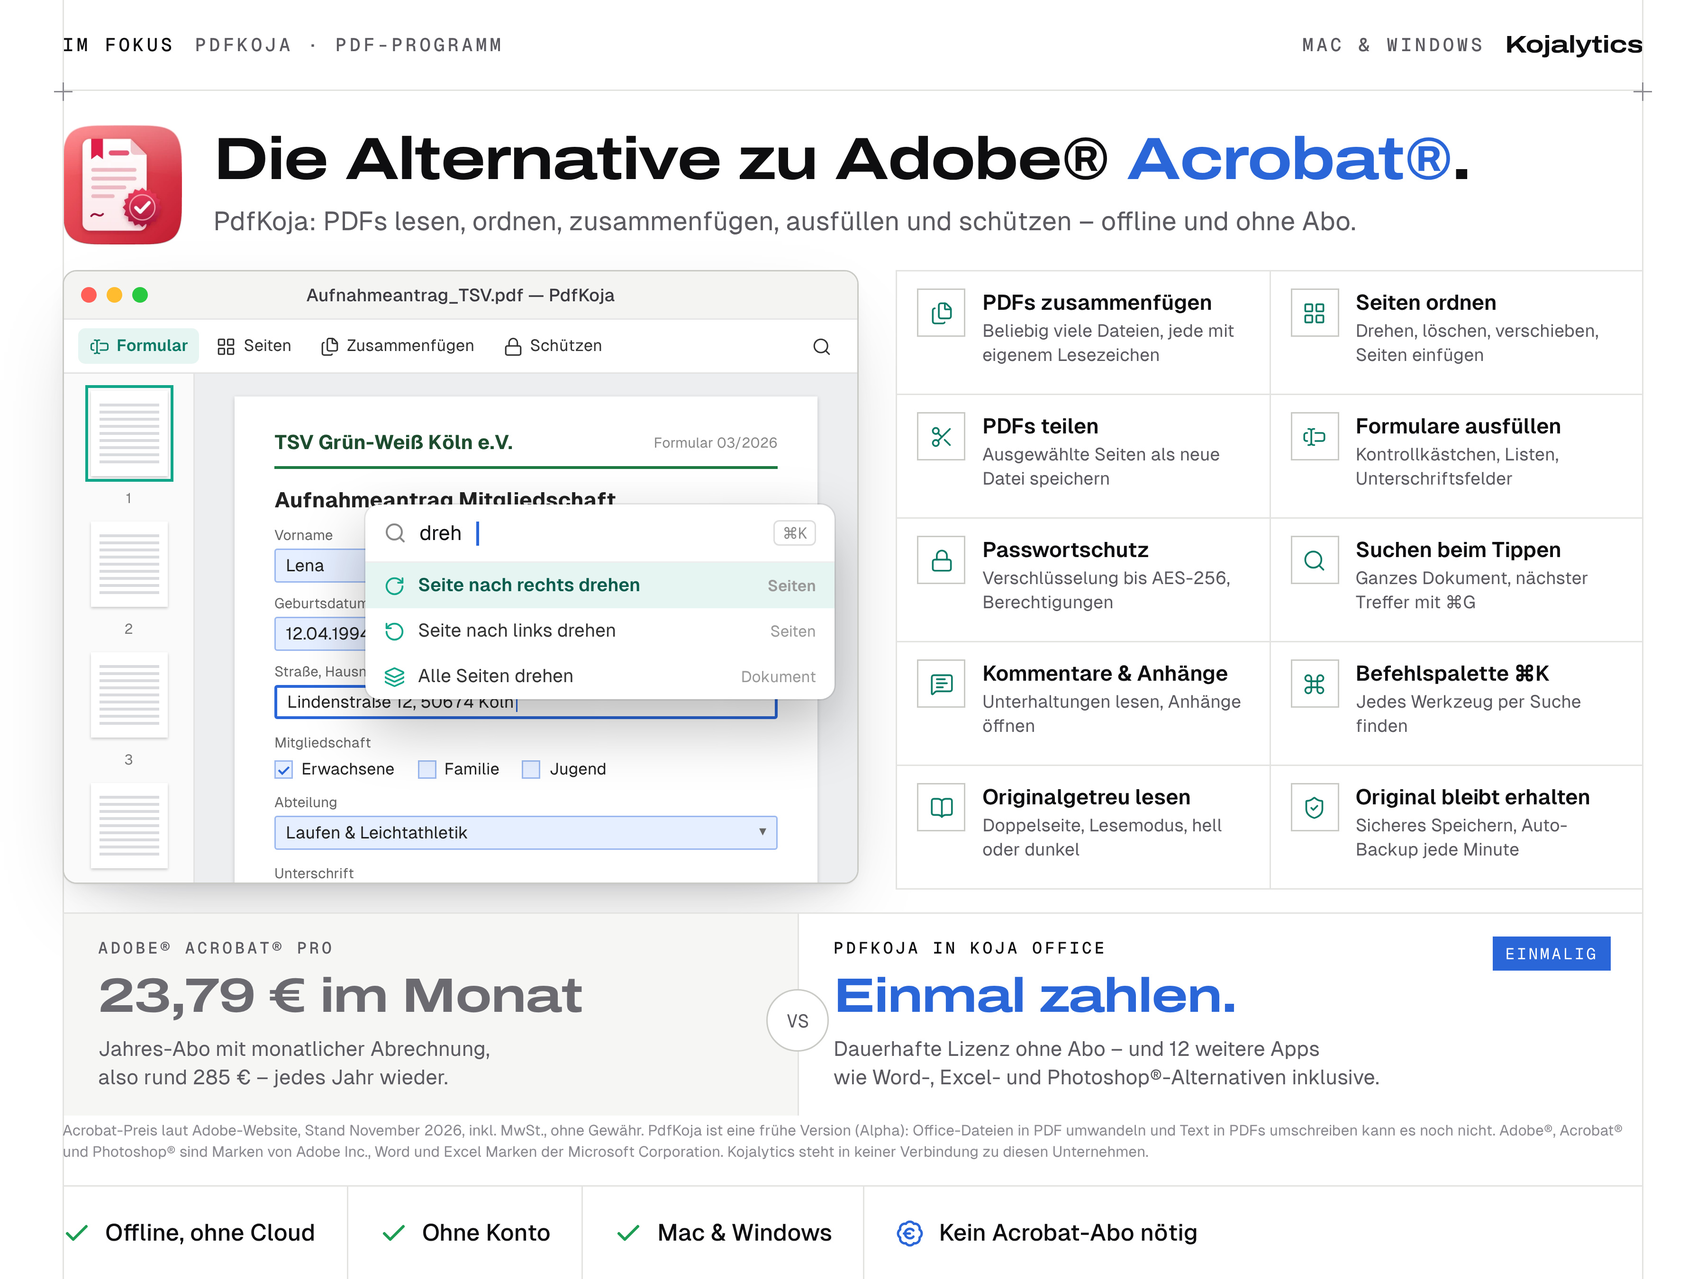
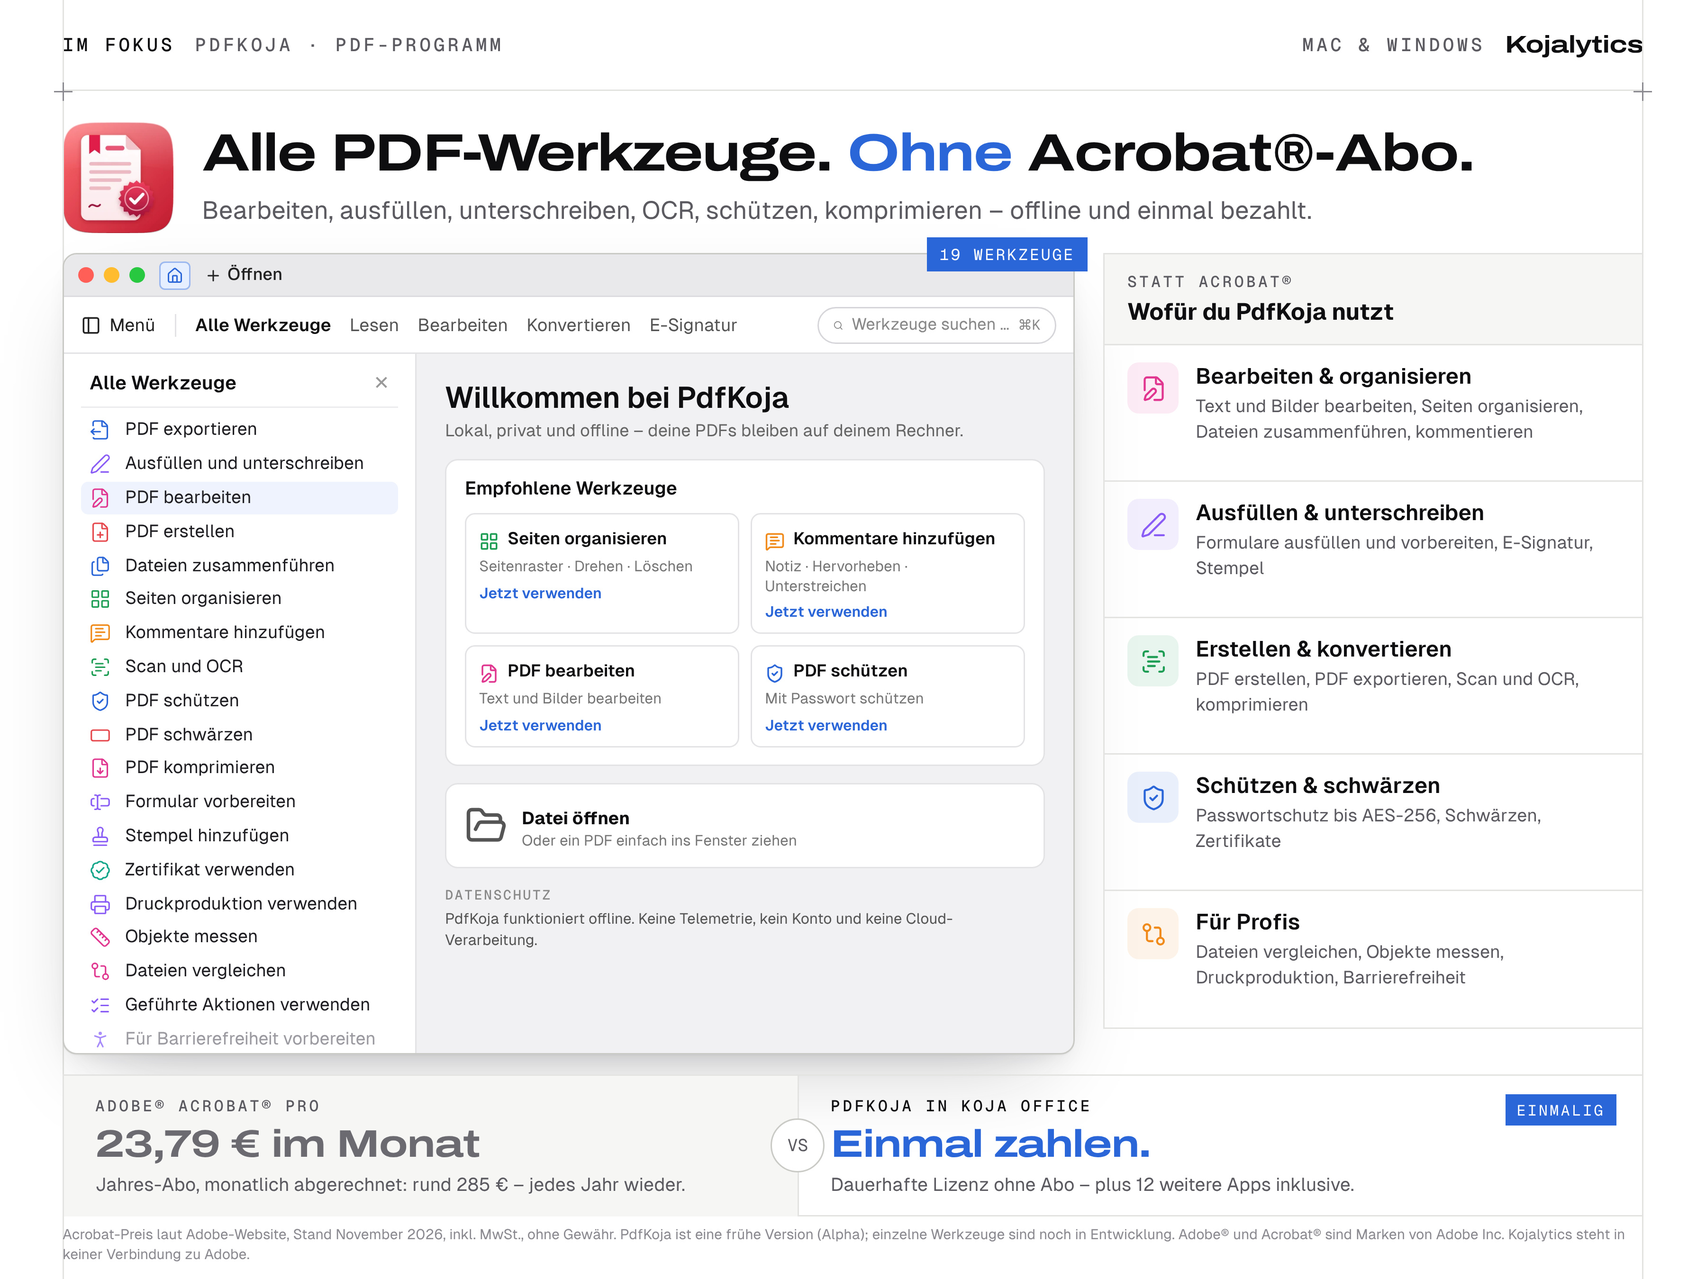
Rebuild PdfKoja product image from the real app UI
Recreate the PdfKoja start screen with all 19 tools from the sidebar,
group them by use case, and keep the Acrobat Pro price comparison.

Claude-Session: https://claude.ai/code/session_01MuXANxE6B8aim9ZcThgdMp

Changed region(s): [[0.0311, 0.0933, 0.9644, 0.9956], [0.8711, 0.84, 0.9644, 0.9022]]

diff --git a/kleinanzeigen-bilder/quelle/p_pdfproduct.py b/kleinanzeigen-bilder/quelle/p_pdfproduct.py
@@ -1,121 +1,122 @@
 from lib import *
 
+# the 19 tools exactly as in the PdfKoja sidebar, with the app's icon colours
+TOOLS = [
+    ("file-output", "PDF exportieren", "#2a66d8"), ("pen-line", "Ausfüllen und unterschreiben", "#8a5cf6"),
+    ("file-pen", "PDF bearbeiten", "#e03690"), ("file-plus", "PDF erstellen", "#e5484d"),
+    ("files", "Dateien zusammenführen", "#2a66d8"), ("layout-grid", "Seiten organisieren", "#1d9d54"),
+    ("message-square-text", "Kommentare hinzufügen", "#ef8a1b"), ("scan-text", "Scan und OCR", "#1d9d54"),
+    ("shield-check", "PDF schützen", "#2a66d8"), ("rectangle-horizontal", "PDF schwärzen", "#e5484d"),
+    ("file-down", "PDF komprimieren", "#e03690"), ("text-cursor-input", "Formular vorbereiten", "#8a5cf6"),
+    ("stamp", "Stempel hinzufügen", "#8a5cf6"), ("badge-check", "Zertifikat verwenden", "#11a58a"),
+    ("printer", "Druckproduktion verwenden", "#8a5cf6"), ("ruler", "Objekte messen", "#e03690"),
+    ("git-compare", "Dateien vergleichen", "#e03690"), ("list-checks", "Geführte Aktionen verwenden", "#8a5cf6"),
+    ("person-standing", "Für Barrierefreiheit vorbereiten", "#a78bfa"),
+]
+GROUPS = [
+    ("file-pen", "#e03690", "Bearbeiten &amp; organisieren", "Text und Bilder bearbeiten, Seiten organisieren, Dateien zusammenführen, kommentieren"),
+    ("pen-line", "#8a5cf6", "Ausfüllen &amp; unterschreiben", "Formulare ausfüllen und vorbereiten, E-Signatur, Stempel"),
+    ("scan-text", "#1d9d54", "Erstellen &amp; konvertieren", "PDF erstellen, PDF exportieren, Scan und OCR, komprimieren"),
+    ("shield-check", "#2a66d8", "Schützen &amp; schwärzen", "Passwortschutz bis AES-256, Schwärzen, Zertifikate"),
+    ("git-compare", "#ef8a1b", "Für Profis", "Dateien vergleichen, Objekte messen, Druckproduktion, Barrierefreiheit"),
+]
+
 css = """
-.head { display:flex; gap:22px; align-items:center; padding:24px 0 0; }
-.head h1 { font-size: 42px; }
-.head p { font-size: 18.5px; color: var(--muted); margin-top: 9px; line-height:1.4; }
-.win { left:44px; top:190px; width:560px; height:432px; }
-.tool { height:38px; display:flex; align-items:center; gap:4px; padding:0 10px; border-bottom:1px solid #e3e3e3; font-size:11.5px; color:#333; }
-.tool .t2 { display:flex; gap:5px; align-items:center; padding:5px 8px; border-radius:5px; }
-.tool .t2.on { background:#e6f5f1; color:#0b7a66; font-weight:600; }
-.tool svg { width:14px; height:14px; stroke-width:1.8; }
-.thumbs { position:absolute; left:0; top:72px; bottom:0; width:92px; background:#fafafa; border-right:1px solid #e3e3e3; padding:12px 0; display:flex; flex-direction:column; align-items:center; gap:10px; font-size:10px; color:#777; }
-.th { width:54px; height:74px; background:#fff; box-shadow:0 1px 2px rgba(0,0,0,.2); padding:6px; }
-.th i { display:block; height:2px; background:#d9dbde; margin:3px 0; }
-.th.on { outline:2px solid #11a58a; outline-offset:2px; }
-.view { position:absolute; left:92px; right:0; top:72px; bottom:0; background:#eceef0; overflow:hidden; }
-.doc { position:absolute; left:28px; top:16px; width:410px; height:520px; background:#fff; box-shadow:0 1px 3px rgba(0,0,0,.18); padding:24px 28px; font-size:11.5px; color:#222; }
-.doc .lg { display:flex; justify-content:space-between; align-items:center; border-bottom:2px solid #1d7a43; padding-bottom:8px; margin-bottom:12px; }
-.doc .lg b { font-size:14px; color:#1d4d2e; }
-.doc h4 { font-size:15px; margin-bottom:10px; }
-.fld { margin-bottom:9px; } .fld span { display:block; color:#666; font-size:10px; margin-bottom:3px; }
-.fld div { height:24px; background:#e6efff; border:1px solid #9ab8ef; border-radius:2px; padding:0 7px; display:flex; align-items:center; font-size:12px; }
-.fld div.act { border:2px solid #2a66d8; background:#fff; }
-.two { display:flex; gap:10px; } .two .fld { flex:1; }
-.cb { display:flex; gap:16px; margin:4px 0 10px; font-size:11.5px; } .cb span { display:flex; gap:6px; align-items:center; }
-.cb i { width:13px; height:13px; border:1px solid #9ab8ef; background:#e6efff; display:inline-flex; align-items:center; justify-content:center; font-style:normal; font-size:11px; color:#2a66d8; font-weight:700; }
-.sig { height:40px; border:1px dashed #9ab8ef; background:#f2f6ff; display:flex; align-items:center; justify-content:center; color:#5a7fc8; font-size:11px; gap:6px; }
-.sig svg { width:14px; height:14px; }
-.pal { position:absolute; left:120px; top:92px; width:330px; background:#fff; border-radius:10px; box-shadow:0 18px 44px rgba(0,0,0,.28), 0 0 0 1px rgba(0,0,0,.08); overflow:hidden; font-size:13px; }
-.pal .q { display:flex; gap:9px; align-items:center; padding:11px 13px; border-bottom:1px solid #eee; font-size:14.5px; }
-.pal .q svg { width:16px; height:16px; color:#888; }
-.pal .q kbd { margin-left:auto; font-family:GeistMono; font-size:11px; color:#888; border:1px solid #ddd; border-radius:4px; padding:1px 5px; }
-.pal .it { display:flex; gap:9px; align-items:center; padding:8px 13px; color:#333; }
-.pal .it svg { width:15px; height:15px; color:#11a58a; }
-.pal .it.on { background:#e6f5f1; color:#0b5c4d; font-weight:600; }
-.pal .it small { margin-left:auto; color:#999; font-size:11px; }
-.caret { display:inline-block; width:1.5px; height:17px; background:#2a66d8; margin-left:1px; vertical-align:-3px; }
-/* features */
-.feat { position:absolute; left:630px; right:44px; top:190px; display:grid; grid-template-columns:1fr 1fr; gap:1px; background:var(--border); border:1px solid var(--border); }
-.f { background:#fff; padding:12px 14px; height:86px; display:flex; gap:12px; }
-.f .ib { width:34px; height:34px; border:1px solid var(--strong); display:flex; align-items:center; justify-content:center; flex:none; }
-.f .ib svg { width:17px; height:17px; stroke-width:1.7; color:#0b7a66; }
-.f b { font-size:15px; font-weight:600; display:block; letter-spacing:-.005em; }
-.f span { font-size:12.5px; color:var(--muted); line-height:1.35; display:block; margin-top:3px; }
+.head { display:flex; gap:20px; align-items:center; padding:22px 0 0; }
+.head h1 { font-size: 37px; white-space:nowrap; }
+.head p { font-size: 17.5px; color: var(--muted); margin-top: 8px; line-height:1.4; }
+.win { left:44px; top:178px; width:712px; height:564px; background:#f1f1f3; border-radius:10px; overflow:visible; }
+.tb2 { height:30px; display:flex; align-items:center; gap:10px; padding:0 10px; background:#e9e9ec; border-bottom:1px solid #dcdce0; font-size:12px; color:#222; border-radius:10px 10px 0 0; }
+.tb2 .home { width:22px; height:20px; border:1px solid #9ab8ef; background:#e6efff; border-radius:4px; display:flex; align-items:center; justify-content:center; color:#2a66d8; }
+.tb2 .home svg, .tb2 .op svg, .tb2 .ri svg { width:12px; height:12px; }
+.tb2 .op { display:flex; gap:4px; align-items:center; font-weight:500; }
+.tb2 .ri { margin-left:auto; display:flex; gap:10px; color:#666; }
+.tbar { height:40px; display:flex; align-items:center; gap:13px; white-space:nowrap; padding:0 12px; background:#fff; border-bottom:1px solid #e3e3e6; font-size:12.5px; color:#555; }
+.tbar svg { width:14px; height:14px; }
+.tbar .mn { display:flex; gap:6px; align-items:center; color:#222; padding-right:14px; border-right:1px solid #e3e3e6; }
+.tbar .on { color:#111; font-weight:600; }
+.tbar .se { margin-left:auto; width:168px; height:26px; border:1px solid #d6d6da; border-radius:13px; display:flex; align-items:center; gap:6px; padding:0 10px; color:#888; font-size:11.5px; }
+.tbar .se kbd { margin-left:auto; font-family:GeistMono; font-size:10px; }
+.sb { position:absolute; left:0; top:70px; bottom:0; width:248px; background:#fff; border-right:1px solid #e3e3e6; padding:8px 12px 0; border-radius:0 0 0 10px; }
+.sb .hd { display:flex; justify-content:space-between; align-items:center; font-weight:600; font-size:13.5px; padding:4px 6px 8px; border-bottom:1px solid #ececef; margin-bottom:4px; }
+.tl { display:flex; align-items:center; gap:10px; height:23.8px; font-size:12.4px; color:#1f1f23; padding:0 6px; border-radius:5px; }
+.tl svg { width:15px; height:15px; stroke-width:1.7; flex:none; }
+.tl.on { background:#eef3fd; }
+.mainv { position:absolute; left:248px; right:0; top:70px; bottom:0; padding:18px 20px; }
+.mainv h2 { font-size:21px; font-weight:600; letter-spacing:-.01em; }
+.mainv .sub { font-size:12px; color:#666; margin-top:3px; }
+.box { background:#fff; border:1px solid #e3e3e6; border-radius:9px; padding:12px 13px; margin-top:12px; }
+.box h5 { font-size:13px; font-weight:600; margin-bottom:9px; }
+.cards { display:grid; grid-template-columns:1fr 1fr; gap:8px; }
+.cd { border:1px solid #e3e3e6; border-radius:7px; padding:8px 9px; }
+.cd b { display:flex; gap:6px; align-items:center; font-size:12px; font-weight:600; }
+.cd b svg { width:14px; height:14px; }
+.cd span { display:block; font-size:10.5px; color:#777; margin-top:4px; line-height:1.3; }
+.cd i { display:block; font-style:normal; font-size:10.5px; color:#2a66d8; font-weight:600; margin-top:5px; }
+.priv { margin-top:12px; font-size:10.5px; color:#555; line-height:1.4; }
+.priv b { font-family:GeistMono; font-size:9.5px; letter-spacing:.12em; color:#888; display:block; margin-bottom:3px; font-weight:500; }
+.cnt { position:absolute; right:-10px; top:-12px; background:var(--accent); color:#fff; font-family:GeistMono; font-size:11px; letter-spacing:.12em; padding:5px 9px; z-index:3; }
+/* groups */
+.grp { position:absolute; left:776px; right:44px; top:178px; border:1px solid var(--border); }
+.grp .gh { padding:12px 16px; border-bottom:1px solid var(--border); background:var(--surface); }
+.grp .gh .hud { font-size:11px; }
+.grp .gh b { display:block; font-size:16.5px; margin-top:4px; letter-spacing:-.01em; }
+.g { display:flex; gap:12px; padding:12px 16px; border-bottom:1px solid var(--border); height:96px; }
+.g:last-child { border-bottom:0; }
+.g .ib { width:36px; height:36px; border-radius:8px; display:flex; align-items:center; justify-content:center; flex:none; }
+.g .ib svg { width:19px; height:19px; stroke-width:1.8; }
+.g b { font-size:15.5px; font-weight:600; display:block; }
+.g span { font-size:12.5px; color:var(--muted); line-height:1.4; display:block; margin-top:3px; }
 /* comparison */
-.cmp { position:absolute; left:44px; right:44px; top:642px; height:138px; display:grid; grid-template-columns:1fr 1.15fr; gap:0; border:1px solid var(--border); }
-.cmp > div { padding:16px 24px; position:relative; }
+.cmp { position:absolute; left:44px; right:44px; top:756px; height:100px; display:grid; grid-template-columns:1fr 1.15fr; border:1px solid var(--border); }
+.cmp > div { padding:14px 22px; position:relative; }
 .cmp .old { background:var(--surface); }
-.cmp .new { background:#fff; border-left:1px solid var(--border); }
-.cmp .hud { font-size:11.5px; }
-.cmp .p { font-family:Archivo; font-weight:700; font-stretch:125%; letter-spacing:-.02em; font-size:34px; margin-top:10px; line-height:1; }
+.cmp .new { border-left:1px solid var(--border); }
+.cmp .hud { font-size:11px; }
+.cmp .p { font-family:Archivo; font-weight:700; font-stretch:125%; letter-spacing:-.02em; font-size:27px; margin-top:7px; line-height:1; }
 .cmp .old .p { color:#6a6a70; }
-.cmp .old .p s { text-decoration-thickness:3px; text-decoration-color:#e5484d; }
-.cmp .s { font-size:14.5px; color:var(--muted); margin-top:10px; line-height:1.4; }
 .cmp .new .p { color:var(--accent); }
-.cmp .tag { position:absolute; right:22px; top:16px; background:var(--accent); color:#fff; font-family:GeistMono; font-size:11px; letter-spacing:.14em; padding:5px 9px; }
-.cmp .vs { position:absolute; padding:0; left:calc(46.5% - 22px); top:53px; width:44px; height:44px; border-radius:50%; background:#fff; border:1px solid var(--strong); display:flex; align-items:center; justify-content:center; font-family:GeistMono; font-size:13px; color:var(--muted); z-index:2; }
-.note { position:absolute; left:44px; right:44px; top:788px; font-size:10.5px; color:var(--faint); line-height:1.4; }
+.cmp .s { font-size:13px; color:var(--muted); margin-top:7px; }
+.cmp .tag { position:absolute; right:18px; top:13px; background:var(--accent); color:#fff; font-family:GeistMono; font-size:10.5px; letter-spacing:.14em; padding:4px 8px; }
+.cmp .vs { position:absolute; left:calc(46.5% - 19px); top:30px; width:38px; height:38px; border-radius:50%; background:#fff; border:1px solid var(--strong); display:flex; align-items:center; justify-content:center; font-family:GeistMono; font-size:12px; color:var(--muted); z-index:2; padding:0; }
+.note { position:absolute; left:44px; right:44px; top:862px; font-size:10px; color:var(--faint); line-height:1.4; }
 """
 
-FEATS = [
-    ("files", "PDFs zusammenfügen", "Beliebig viele Dateien, jede mit eigenem Lesezeichen"),
-    ("layout-grid", "Seiten ordnen", "Drehen, löschen, verschieben, Seiten einfügen"),
-    ("scissors", "PDFs teilen", "Ausgewählte Seiten als neue Datei speichern"),
-    ("text-cursor-input", "Formulare ausfüllen", "Kontrollkästchen, Listen, Unterschriftsfelder"),
-    ("lock", "Passwortschutz", "Verschlüsselung bis AES-256, Berechtigungen"),
-    ("search", "Suchen beim Tippen", "Ganzes Dokument, nächster Treffer mit ⌘G"),
-    ("message-square-text", "Kommentare &amp; Anhänge", "Unterhaltungen lesen, Anhänge öffnen"),
-    ("command", "Befehlspalette ⌘K", "Jedes Werkzeug per Suche finden"),
-    ("book-open", "Originalgetreu lesen", "Doppelseite, Lesemodus, hell oder dunkel"),
-    ("shield-check", "Original bleibt erhalten", "Sicheres Speichern, Auto-Backup jede Minute"),
-]
-feat = "".join(f'<div class="f"><div class="ib">{ico(i)}</div><div><b>{t}</b><span>{d}</span></div></div>' for i, t, d in FEATS)
-
-doc = f"""<div class="doc">
- <div class="lg"><b>TSV Grün-Weiß Köln e.V.</b><span style="color:#888;font-size:10px">Formular 03/2026</span></div>
- <h4>Aufnahmeantrag Mitgliedschaft</h4>
- <div class="two"><div class="fld"><span>Vorname</span><div>Lena</div></div><div class="fld"><span>Nachname</span><div>Hoffmann</div></div></div>
- <div class="two"><div class="fld"><span>Geburtsdatum</span><div>12.04.1994</div></div><div class="fld"><span>Telefon</span><div>0151 234 567 89</div></div></div>
- <div class="fld"><span>Straße, Hausnummer, PLZ, Ort</span><div class="act">Lindenstraße 12, 50674 Köln<span class="caret"></span></div></div>
- <span style="color:#666;font-size:10px">Mitgliedschaft</span>
- <div class="cb"><span><i>✓</i>Erwachsene</span><span><i></i>Familie</span><span><i></i>Jugend</span></div>
- <div class="fld"><span>Abteilung</span><div style="justify-content:space-between">Laufen &amp; Leichtathletik <span style="color:#666">▾</span></div></div>
- <span style="color:#666;font-size:10px">Unterschrift</span>
- <div class="sig">{ico('pen-line')}Hier unterschreiben</div>
-</div>"""
-
-pal = f"""<div class="pal"><div class="q">{ico('search')}dreh<span class="caret"></span><kbd>⌘K</kbd></div>
- <div class="it on">{ico('rotate-cw')}Seite nach rechts drehen<small>Seiten</small></div>
- <div class="it">{ico('rotate-ccw')}Seite nach links drehen<small>Seiten</small></div>
- <div class="it">{ico('layers')}Alle Seiten drehen<small>Dokument</small></div></div>"""
-
-thumbs = "".join(f'<div class="th {"on" if i == 0 else ""}">' + "<i></i>" * 9 + f'</div><span>{i+1}</span>' for i in range(4))
+tools = "".join(f'<div class="tl {"on" if i == 2 else ""}" style="{"color:#9a9aa0" if i == 18 else ""}"><span style="color:{c};display:flex">{ico(ic)}</span>{n}</div>' for i, (ic, n, c) in enumerate(TOOLS))
+cards = [("layout-grid", "#1d9d54", "Seiten organisieren", "Seitenraster · Drehen · Löschen"),
+         ("message-square-text", "#ef8a1b", "Kommentare hinzufügen", "Notiz · Hervorheben · Unterstreichen"),
+         ("file-pen", "#e03690", "PDF bearbeiten", "Text und Bilder bearbeiten"),
+         ("shield-check", "#2a66d8", "PDF schützen", "Mit Passwort schützen")]
+cards_html = "".join(f'<div class="cd"><b><span style="color:{c};display:flex">{ico(i)}</span>{t}</b><span>{d}</span><i>Jetzt verwenden</i></div>' for i, c, t, d in cards)
+groups = "".join(f'<div class="g"><div class="ib" style="background:{c}1a;color:{c}">{ico(i)}</div><div><b>{t}</b><span>{d}</span></div></div>' for i, c, t, d in GROUPS)
 
 body = f"""
-<div class="head">{app_icon('pdf-koja', 84)}<div>
-<h1 class="display">Die Alternative zu Adobe® <span class="hl">Acrobat®</span>.</h1>
-<p>PdfKoja: PDFs lesen, ordnen, zusammenfügen, ausfüllen und schützen – offline und ohne Abo.</p></div></div>
+<div class="head">{app_icon('pdf-koja', 78)}<div>
+<h1 class="display">Alle PDF-Werkzeuge. <span class="hl">Ohne</span> Acrobat®-Abo.</h1>
+<p>Bearbeiten, ausfüllen, unterschreiben, OCR, schützen, komprimieren – offline und einmal bezahlt.</p></div></div>
 
 <div class="win">
- <div class="tb"><div class="dots"><i></i><i></i><i></i></div><div class="t">Aufnahmeantrag_TSV.pdf — PdfKoja</div></div>
- <div class="tool"><span class="t2 on">{ico('text-cursor-input')}Formular</span><span class="t2">{ico('layout-grid')}Seiten</span><span class="t2">{ico('files')}Zusammenfügen</span><span class="t2">{ico('lock')}Schützen</span><span class="t2" style="margin-left:auto">{ico('search')}</span></div>
- <div class="thumbs">{thumbs}</div>
- <div class="view">{doc}{pal}</div>
+ <div class="cnt">19 WERKZEUGE</div>
+ <div class="tb2"><div class="dots"><i></i><i></i><i></i></div><span class="home">{ico('house')}</span><span class="op">{ico('plus')}Öffnen</span></div>
+ <div class="tbar"><span class="mn">{ico('panel-left')}Menü</span><span class="on">Alle Werkzeuge</span><span>Lesen</span><span>Bearbeiten</span><span>Konvertieren</span><span>E-Signatur</span><span class="se">{ico('search')}Werkzeuge suchen …<kbd>⌘K</kbd></span></div>
+ <div class="sb"><div class="hd"><span>Alle Werkzeuge</span><span style="color:#999;font-weight:400">✕</span></div>{tools}</div>
+ <div class="mainv">
+  <h2>Willkommen bei PdfKoja</h2><div class="sub">Lokal, privat und offline – deine PDFs bleiben auf deinem Rechner.</div>
+  <div class="box"><h5>Empfohlene Werkzeuge</h5><div class="cards">{cards_html}</div></div>
+  <div class="box" style="display:flex;align-items:center;gap:10px"><span style="width:30px;height:30px;color:#555;display:flex">{ico('folder-open')}</span><div><b style="font-size:12.5px">Datei öffnen</b><div style="font-size:10.5px;color:#777">Oder ein PDF einfach ins Fenster ziehen</div></div></div>
+  <div class="priv"><b>DATENSCHUTZ</b>PdfKoja funktioniert offline. Keine Telemetrie, kein Konto und keine Cloud-Verarbeitung.</div>
+ </div>
 </div>
 
-<div class="feat">{feat}</div>
+<div class="grp"><div class="gh"><div class="hud">Statt Acrobat®</div><b>Wofür du PdfKoja nutzt</b></div>{groups}</div>
 
 <div class="cmp">
- <div class="old"><div class="hud">Adobe® Acrobat® Pro</div><div class="p">23,79 € im Monat</div>
-  <div class="s">Jahres-Abo mit monatlicher Abrechnung,<br>also rund 285 € – jedes Jahr wieder.</div></div>
+ <div class="old"><div class="hud">Adobe® Acrobat® Pro</div><div class="p">23,79 € im Monat</div><div class="s">Jahres-Abo, monatlich abgerechnet: rund 285 € – jedes Jahr wieder.</div></div>
  <div class="vs">VS</div>
- <div class="new"><span class="tag">EINMALIG</span><div class="hud" style="color:var(--fg)">PdfKoja in Koja Office</div><div class="p">Einmal zahlen.</div>
-  <div class="s">Dauerhafte Lizenz ohne Abo – und 12 weitere Apps<br>wie Word-, Excel- und Photoshop®-Alternativen inklusive.</div></div>
+ <div class="new"><span class="tag">EINMALIG</span><div class="hud" style="color:var(--fg)">PdfKoja in Koja Office</div><div class="p">Einmal zahlen.</div><div class="s">Dauerhafte Lizenz ohne Abo – plus 12 weitere Apps inklusive.</div></div>
 </div>
-<div class="note">Acrobat-Preis laut Adobe-Website, Stand November 2026, inkl. MwSt., ohne Gewähr. PdfKoja ist eine frühe Version (Alpha): Office-Dateien in PDF umwandeln und Text in PDFs umschreiben kann es noch nicht.
-Adobe®, Acrobat® und Photoshop® sind Marken von Adobe Inc., Word und Excel Marken der Microsoft Corporation. Kojalytics steht in keiner Verbindung zu diesen Unternehmen.</div>
+<div class="note">Acrobat-Preis laut Adobe-Website, Stand November 2026, inkl. MwSt., ohne Gewähr. PdfKoja ist eine frühe Version (Alpha); einzelne Werkzeuge sind noch in Entwicklung.
+Adobe® und Acrobat® sind Marken von Adobe Inc. Kojalytics steht in keiner Verbindung zu Adobe.</div>
 """
 
-page("02-pdfkoja-produkt", body, css, label="PdfKoja · PDF-Programm", idx="Im Fokus", meta="Mac &amp; Windows",
-     chips=[("check", "Offline, ohne Cloud"), ("check", "Ohne Konto"), ("check", "Mac &amp; Windows"), ("badge-euro", "Kein Acrobat-Abo nötig", "blue")])
+page("02-pdfkoja-produkt", body, css, label="PdfKoja · PDF-Programm", idx="Im Fokus", meta="Mac &amp; Windows")
